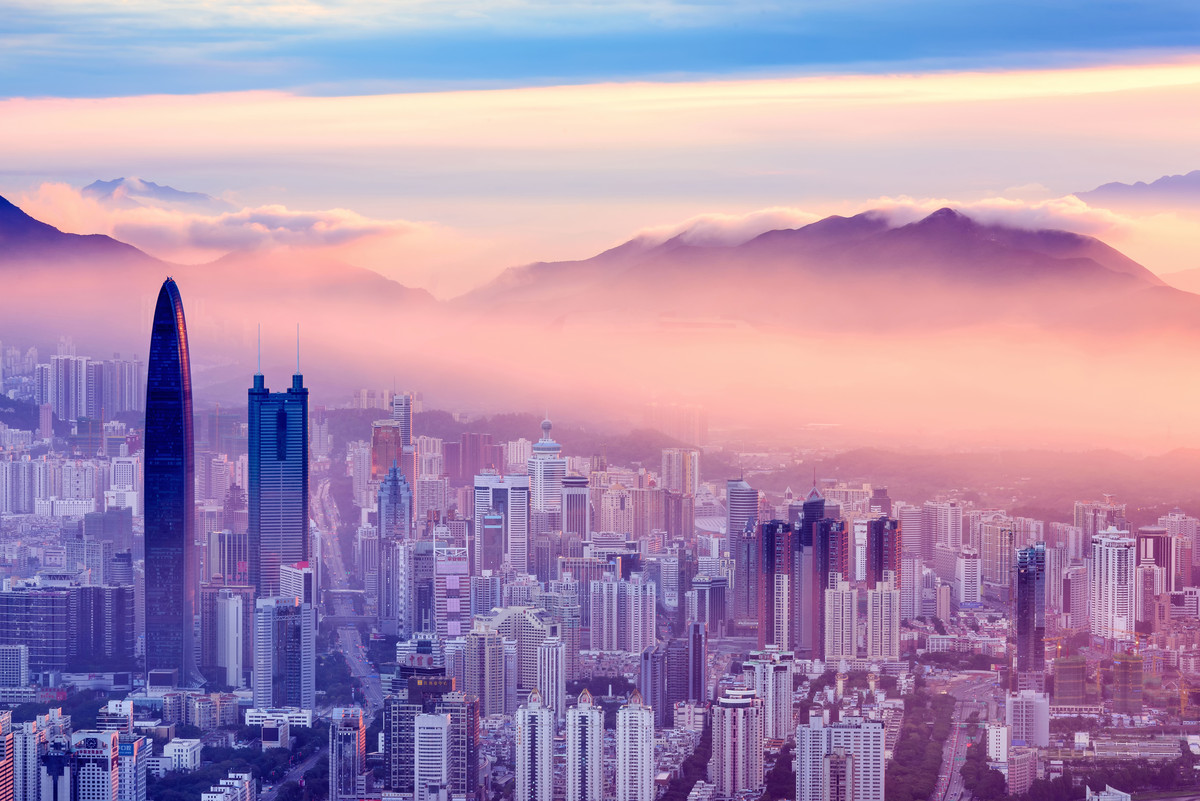
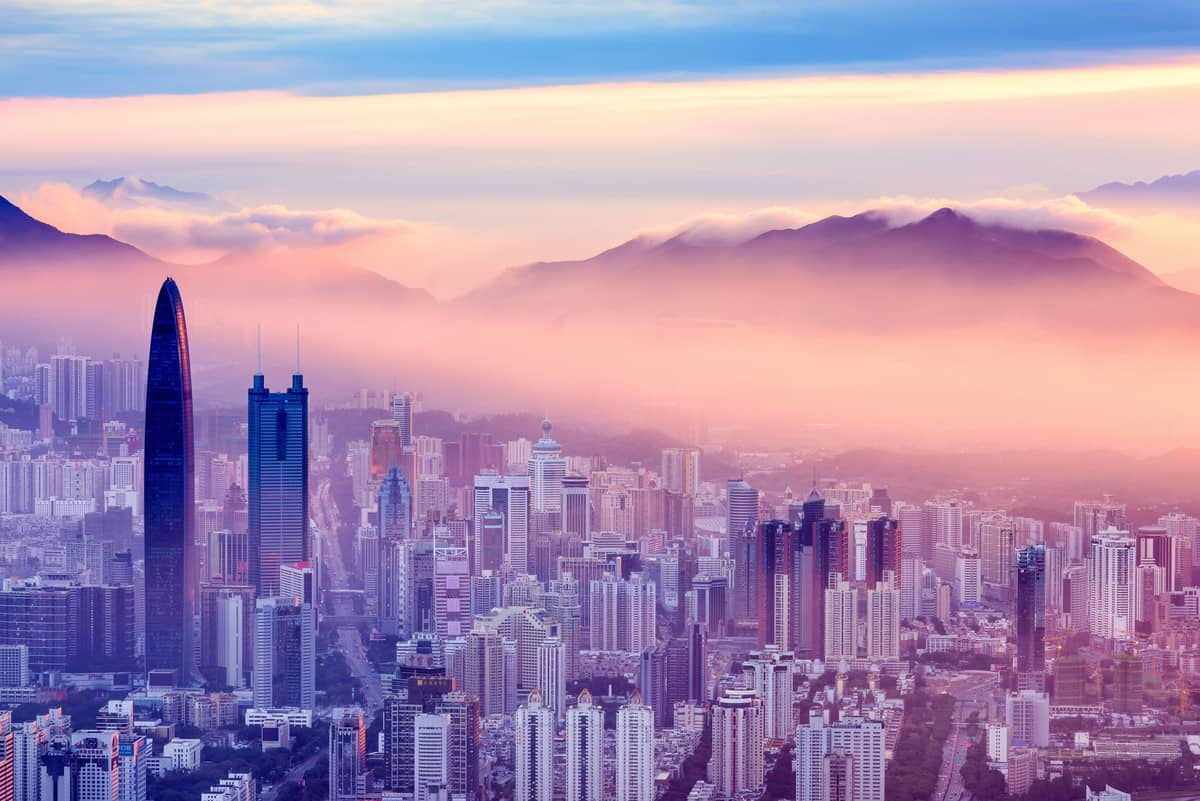
Site updated: 2017-01-01 20:41:40

diff --git a/index.html b/index.html
@@ -202,7 +202,7 @@
 <div class="mdl-card daily-pic mdl-cell mdl-cell--8-col index-top-block">
     
     <!-- Pic & Slogan -->
-    <div class="mdl-card__media mdl-color-text--grey-50" style="background-image:url(/img/daily_pic.png)">
+    <div class="mdl-card__media mdl-color-text--grey-50" style="background-image:url(/img/daily_pic.jpg)">
         <p class="index-top-block-slogan"><a href="https://ciefdx.github.io">
         
           
@@ -251,7 +251,7 @@
     <!-- LOGO -->
     <div class="something-else-logo mdl-color--white mdl-color-text--grey-600">
         <a href="https://ciefdx.github.io">
-            <img src="/img/logo.png" alt="logo" />
+            <img src="/img/logo.jpg" alt="logo" />
         </a>
     </div>
 
@@ -398,7 +398,7 @@
 <aside id="sidebar" class="sidebar sidebar-colored  sidebar-fixed-left" role="navigation">
 	<div id="sidebar-main">
 	    <!-- Sidebar Header -->
-		<div class="sidebar-header header-cover" style="background-image: url(/img/sidebar_header.png);">
+		<div class="sidebar-header header-cover" style="background-image: url(/img/sidebar_header.jpg);">
     <!-- Top bar -->
     <div class="top-bar"></div>
 

diff --git a/2016/12/31/Github-全家桶-填坑指南/index.html b/2016/12/31/Github-全家桶-填坑指南/index.html
@@ -395,7 +395,7 @@
 <aside id="sidebar" class="sidebar sidebar-colored  sidebar-fixed-left" role="navigation">
 	<div id="sidebar-main">
 	    <!-- Sidebar Header -->
-		<div class="sidebar-header header-cover" style="background-image: url(/img/sidebar_header.png);">
+		<div class="sidebar-header header-cover" style="background-image: url(/img/sidebar_header.jpg);">
     <!-- Top bar -->
     <div class="top-bar"></div>
 

diff --git a/archives/2016/12/index.html b/archives/2016/12/index.html
@@ -290,7 +290,7 @@
 <aside id="sidebar" class="sidebar sidebar-colored  sidebar-fixed-left" role="navigation">
 	<div id="sidebar-main">
 	    <!-- Sidebar Header -->
-		<div class="sidebar-header header-cover" style="background-image: url(/img/sidebar_header.png);">
+		<div class="sidebar-header header-cover" style="background-image: url(/img/sidebar_header.jpg);">
     <!-- Top bar -->
     <div class="top-bar"></div>
 

diff --git a/archives/2016/index.html b/archives/2016/index.html
@@ -290,7 +290,7 @@
 <aside id="sidebar" class="sidebar sidebar-colored  sidebar-fixed-left" role="navigation">
 	<div id="sidebar-main">
 	    <!-- Sidebar Header -->
-		<div class="sidebar-header header-cover" style="background-image: url(/img/sidebar_header.png);">
+		<div class="sidebar-header header-cover" style="background-image: url(/img/sidebar_header.jpg);">
     <!-- Top bar -->
     <div class="top-bar"></div>
 

diff --git a/archives/index.html b/archives/index.html
@@ -290,7 +290,7 @@
 <aside id="sidebar" class="sidebar sidebar-colored  sidebar-fixed-left" role="navigation">
 	<div id="sidebar-main">
 	    <!-- Sidebar Header -->
-		<div class="sidebar-header header-cover" style="background-image: url(/img/sidebar_header.png);">
+		<div class="sidebar-header header-cover" style="background-image: url(/img/sidebar_header.jpg);">
     <!-- Top bar -->
     <div class="top-bar"></div>
 
